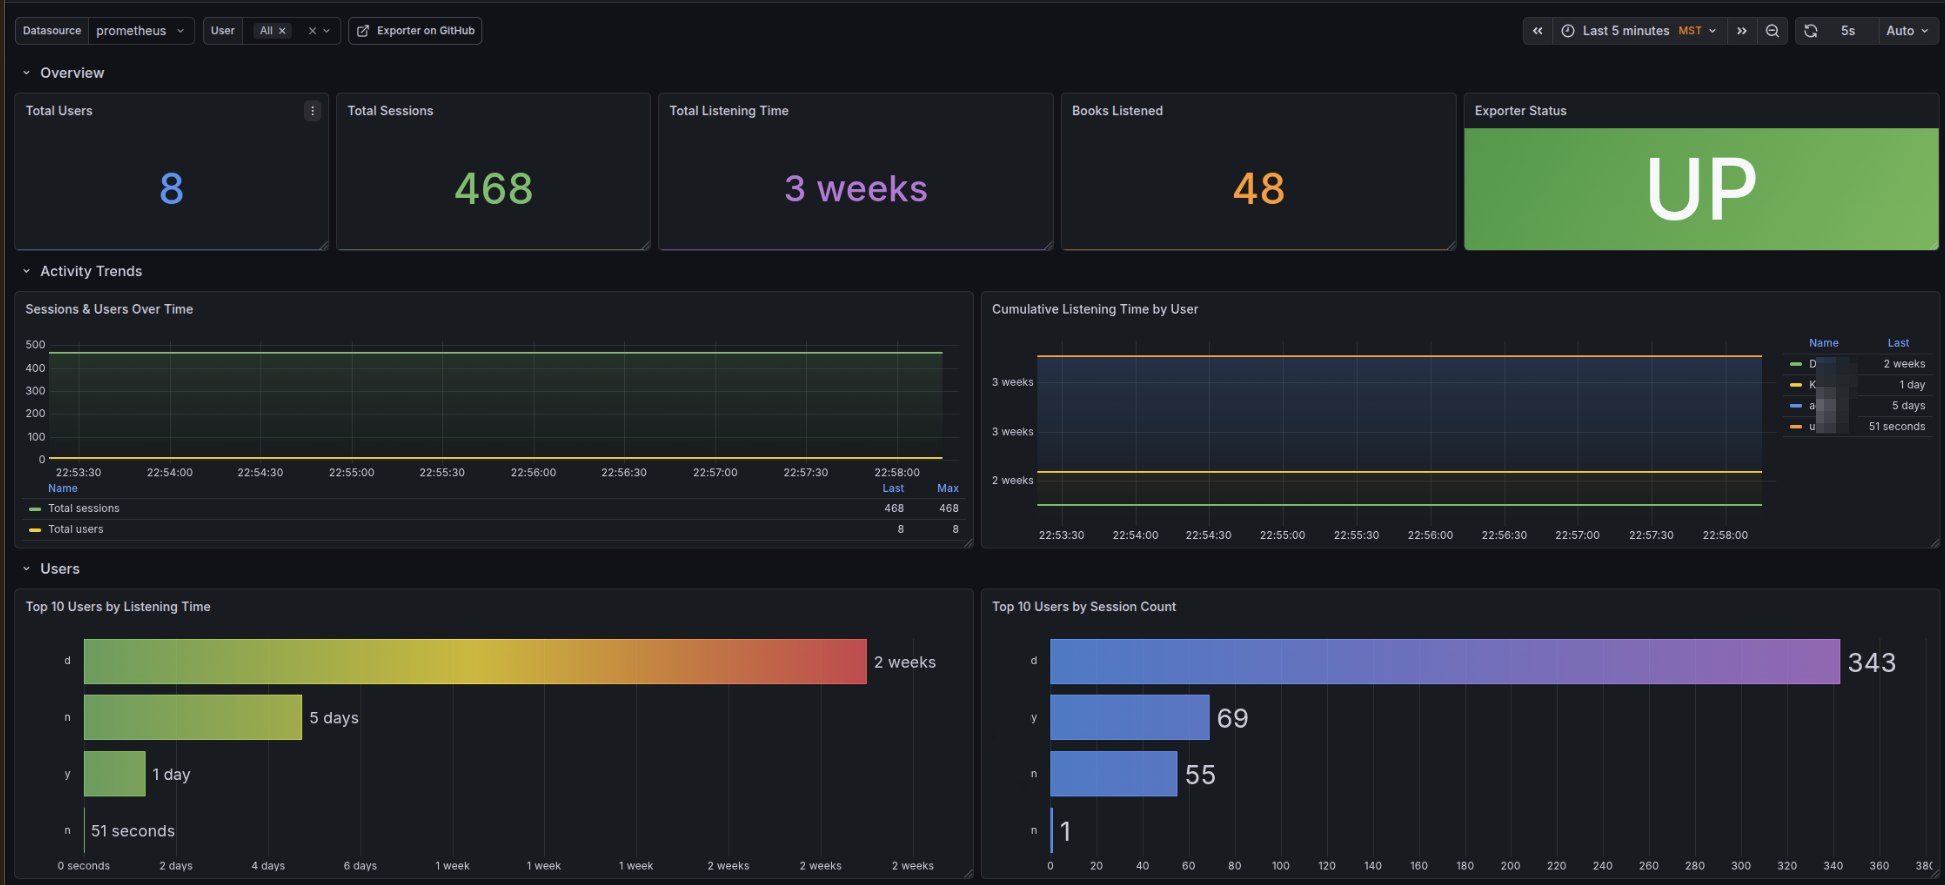
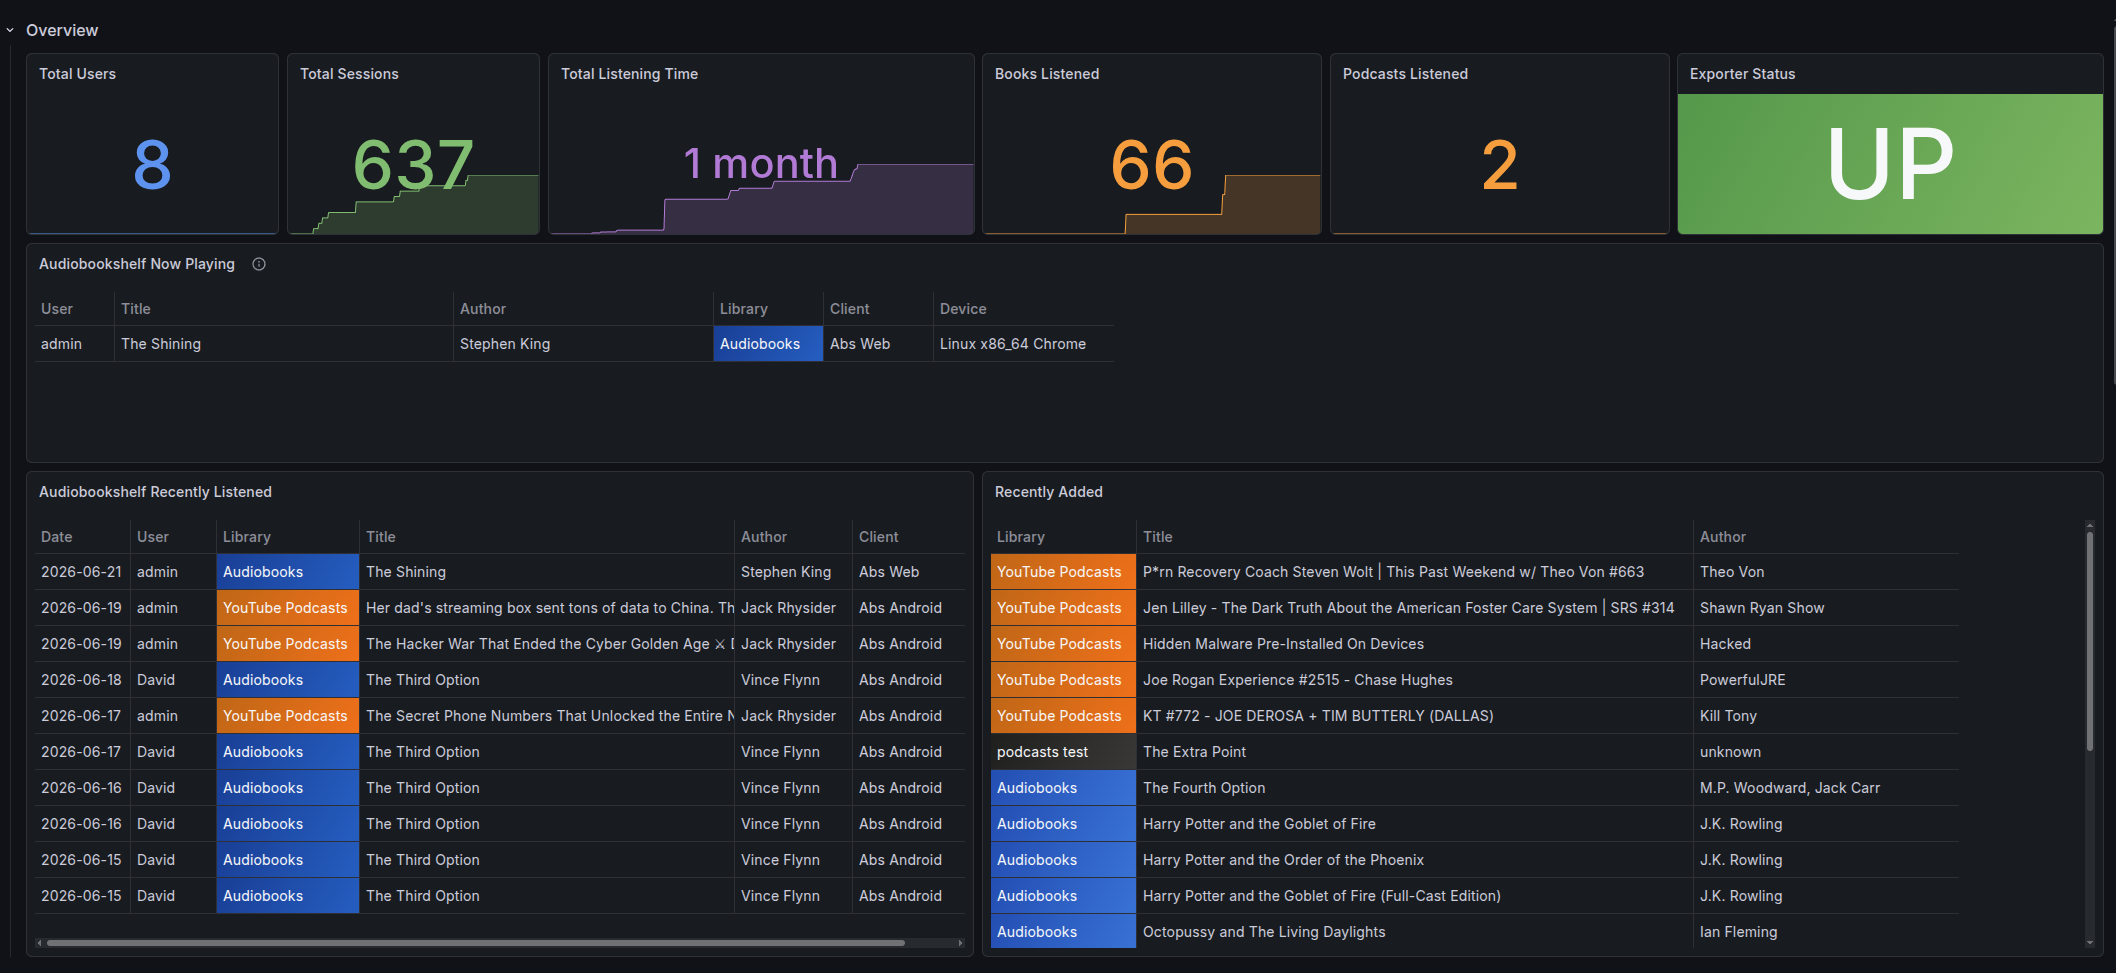
update screenshots

diff --git a/README.md b/README.md
@@ -13,6 +13,8 @@ This exporter collects listening statistics, user activity, library metrics, and
 ![Grafana Dashboard Screenshot 1](examples/grafana/screenshots/audiobookshelf-exporter_1.png)
 ![Grafana Dashboard Screenshot 2](examples/grafana/screenshots/audiobookshelf-exporter_2.png)
 ![Grafana Dashboard Screenshot 3](examples/grafana/screenshots/audiobookshelf-exporter_3.png)
+![Grafana Dashboard Screenshot 4](examples/grafana/screenshots/audiobookshelf-exporter_4.png)
+
 
 Example dashboard JSON:  
 - `examples/grafana/audiobookshelf-dashboard.json` — Grafana classic schema  
